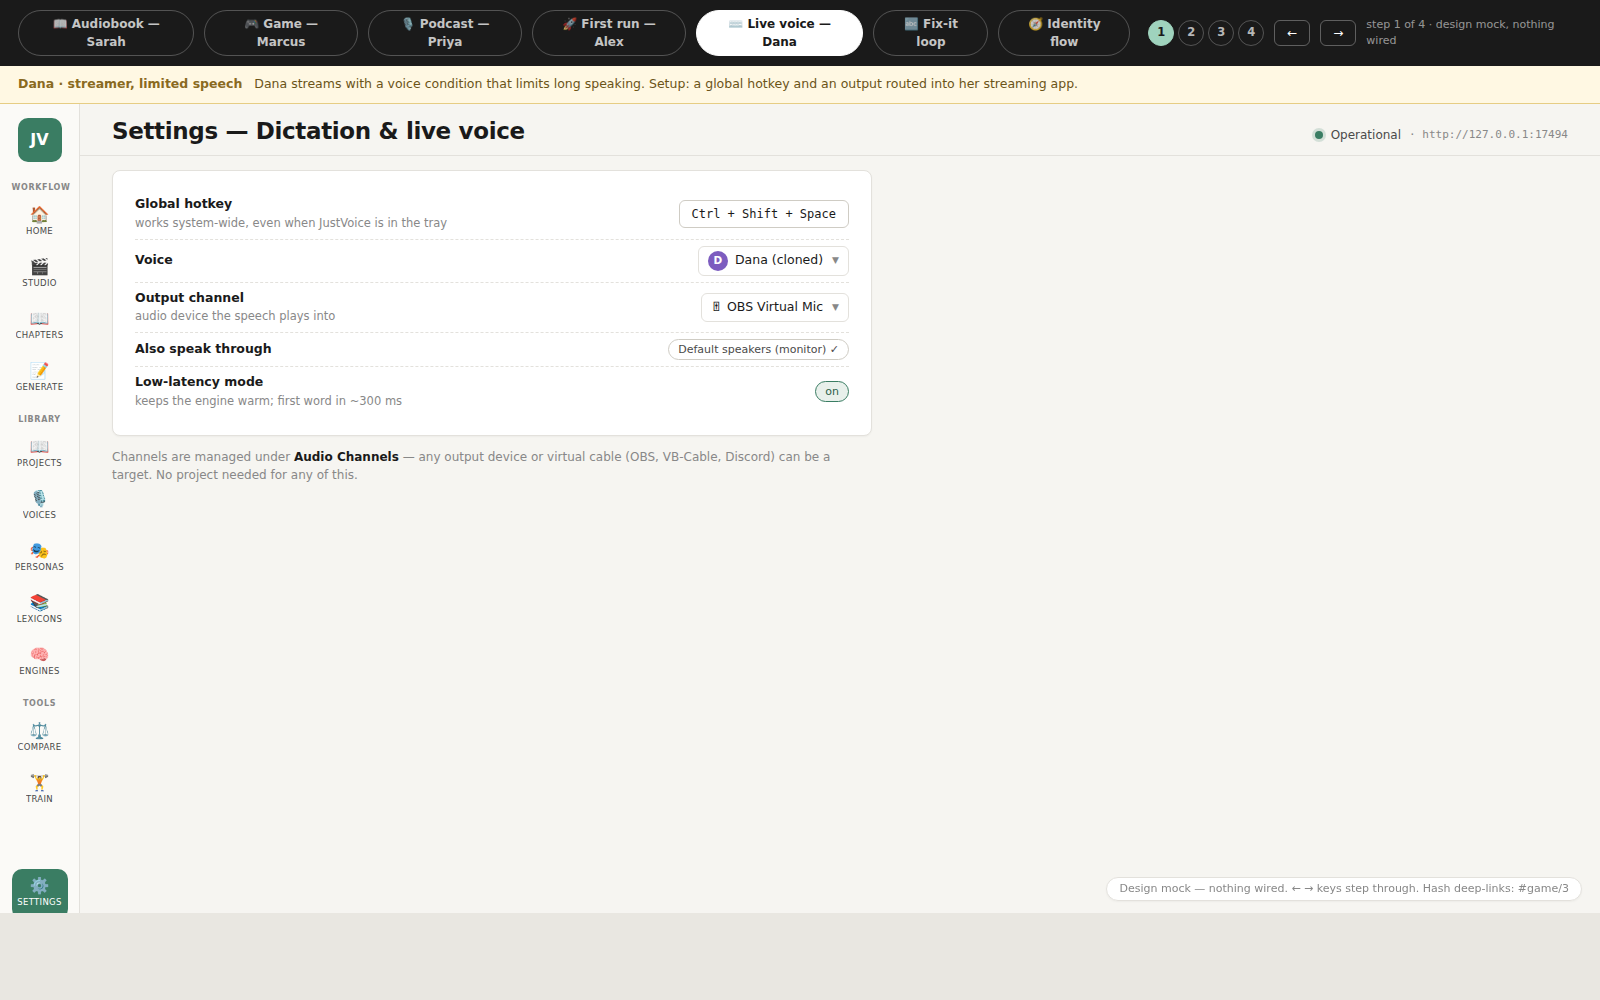
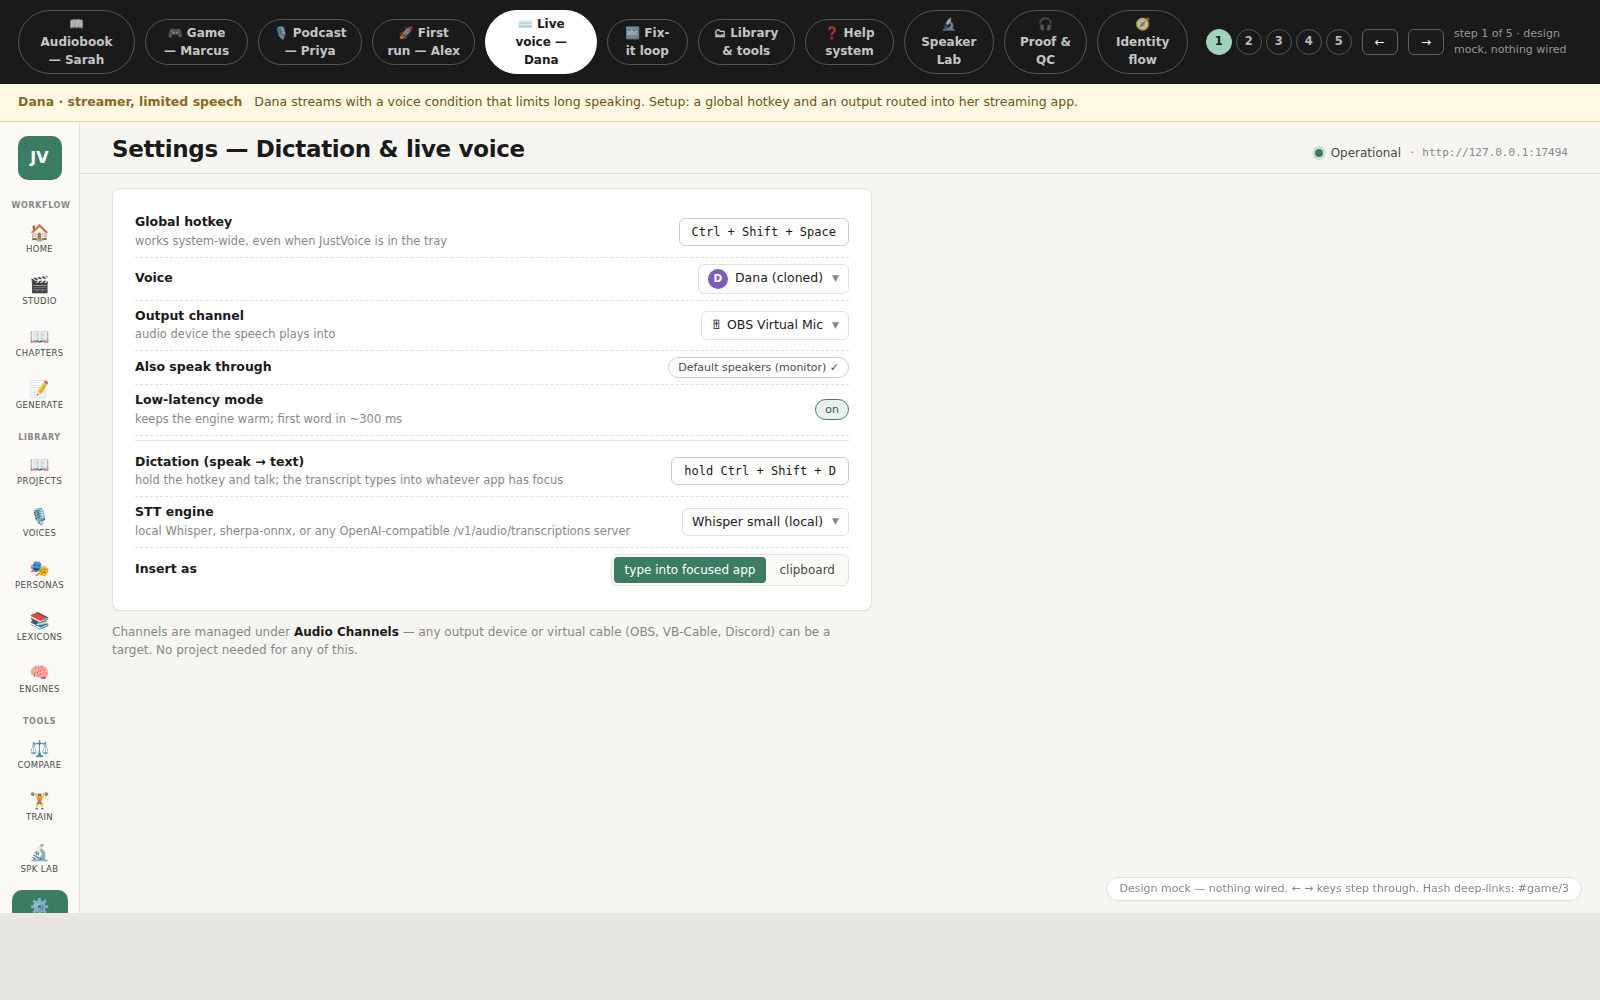
feat(design): dictation mic-mode overlay (speak→text into focused app) + STT settings rows; CONCEPTS §17
https://claude.ai/code/session_01RnHLzYNeJn2GgAMKW1BPmR

diff --git a/preview/journeys-preview.html b/preview/journeys-preview.html
@@ -897,6 +897,9 @@ const stepsDictation = [
       <div class="sum-row" style="align-items:center"><span><strong>Output channel</strong><br/><span class="muted" style="font-size:11.5px">audio device the speech plays into</span></span><span class="combo-cell">🎚 OBS Virtual Mic<span class="chev">▼</span></span></div>
       <div class="sum-row" style="align-items:center"><span><strong>Also speak through</strong></span><span class="pill">Default speakers (monitor) ✓</span></div>
       <div class="sum-row" style="align-items:center"><span><strong>Low-latency mode</strong><br/><span class="muted" style="font-size:11.5px">keeps the engine warm; first word in ~300 ms</span></span><span class="pill green">on</span></div>
+      <div class="sum-row" style="align-items:center;border-top:1px solid var(--line);margin-top:4px;padding-top:12px"><span><strong>Dictation (speak → text)</strong><br/><span class="muted" style="font-size:11.5px">hold the hotkey and talk; the transcript types into whatever app has focus</span></span><span class="mono" style="border:1px solid var(--line-strong);border-radius:6px;padding:4px 12px;font-size:12px">hold Ctrl + Shift + D</span></div>
+      <div class="sum-row" style="align-items:center"><span><strong>STT engine</strong><br/><span class="muted" style="font-size:11.5px">local Whisper, sherpa-onnx, or any OpenAI-compatible /v1/audio/transcriptions server</span></span><span class="combo-cell">Whisper small (local)<span class="chev">▼</span></span></div>
+      <div class="sum-row" style="align-items:center"><span><strong>Insert as</strong></span><span class="chips"><button class="chip active">type into focused app</button><button class="chip">clipboard</button></span></div>
     </div>
     <p class="muted" style="font-size:12px;margin-top:12px;max-width:760px">Channels are managed under <strong>Audio Channels</strong> — any output device or virtual cable (OBS, VB-Cable, Discord) can be a target. No project needed for any of this.</p>`) },
 
@@ -922,7 +925,30 @@ const stepsDictation = [
     </main>`,
   bare:true },
 
-{ nav:"Captures", t:"Everything spoken is kept. History is replayable, pinnable for instant re-speak, and good takes can become cloning samples.",
+{ nav:"Home", t:"The other direction — dictation. Hold the hotkey and talk: the mic captures, Whisper transcribes live, and on release the text types into whatever app has focus.",
+  html: () => `
+    <main style="grid-column:1 / -1;display:flex;align-items:center;justify-content:center;background:#2a2d31;position:relative">
+      <div style="position:absolute;inset:0;opacity:.18;background:
+        linear-gradient(90deg,transparent 24%, #fff 24.2%, transparent 24.4%),
+        linear-gradient(#3a3e44 1px,transparent 1px) 0 0/100% 38px"></div>
+      <div style="position:absolute;top:26px;left:34px;color:#9aa0a8;font-size:12px;font-family:var(--font-mono)">▶ any app — email, code editor, chat…</div>
+      <div style="background:var(--surface);border:1px solid var(--line);border-radius:14px;box-shadow:0 18px 50px rgba(0,0,0,.45);padding:16px 20px;width:560px;position:relative;z-index:2">
+        <div class="row" style="flex-wrap:nowrap;margin-bottom:10px">
+          <span style="width:10px;height:10px;border-radius:99px;background:var(--danger);box-shadow:0 0 0 3px rgba(168,68,46,.25);flex:none"></span>
+          <strong style="font-size:13px">Listening…</strong>
+          ${wave(26,14)}
+          <span class="spacer"></span>
+          <span class="pill blue">Whisper small · local</span>
+          <span class="pill">→ types into: VS Code</span>
+        </div>
+        <div style="border:1px solid var(--line);border-radius:8px;padding:10px 13px;font-size:13.5px;color:var(--ink-2)">the cartographer kept two maps — one for the council and one that was true<span class="muted" style="opacity:.55"> comma new paragraph</span><span style="border-left:1.5px solid var(--ink);margin-left:2px"> </span></div>
+        <div class="row" style="margin-top:9px"><span class="muted" style="font-size:11px">release — insert · Esc — discard · say “comma”, “period”, “new paragraph” for punctuation</span><span class="spacer"></span><span class="pill ghost">0:07 · 19 words</span></div>
+      </div>
+      <div style="position:absolute;bottom:24px;right:30px;color:#9aa0a8;font-size:11.5px;font-family:var(--font-mono)">same overlay, mic mode — hold-to-talk</div>
+    </main>`,
+  bare:true },
+
+{ nav:"Captures", t:"Everything spoken is kept — TTS phrases and dictation transcripts. Replayable, pinnable, and clean recordings can become cloning samples.",
   html: () => shell("audiobook","Captures","Captures", "", `
     <p class="lede">Every hotkey phrase and capture lands here. Pin the ones you repeat; promote clean recordings into voice-clone samples.</p>
     <div class="row" style="margin-bottom:10px"><input class="input" style="max-width:260px" placeholder="Search history…"/><div class="chips"><button class="chip active">All</button><button class="chip">Pinned</button><button class="chip">Today</button></div></div>

diff --git a/docs/CONCEPTS.md b/docs/CONCEPTS.md
@@ -491,3 +491,17 @@ Mocked as Speaker Lab step 3 (`#splab/3`).
 - Visual fidelity note: JustVoice keeps its own design language (the
   grid/green aesthetic) — the JustWrite screenshots are functional
   reference, not pixel reference (user, 2026-06-11).
+
+## 17. Dictation is bidirectional (capture gap closed, 2026-06-11)
+
+The Live-voice journey originally mocked only **type → speak** (TTS into a
+virtual mic). Real dictation is the other direction and is now mocked too
+(`#dictation/3`): **hold a second hotkey and talk** — mic capture, live
+Whisper transcript in the same floating overlay (mic mode), spoken
+punctuation ("comma", "period", "new paragraph"), and on release the text
+**types into whatever app has focus** (or clipboard). Settings gains:
+dictation hold-to-talk hotkey · **STT engine picker** (local Whisper,
+sherpa-onnx, or any OpenAI-compatible `/v1/audio/transcriptions` server) ·
+insert-as choice. Captures keeps both kinds of history — TTS phrases and
+dictation transcripts — and clean recordings still promote to clone
+samples.
